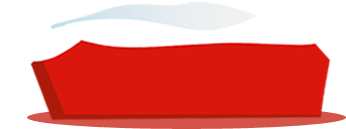
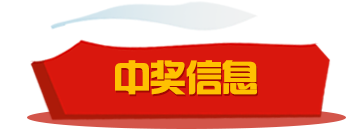
init

Changed region(s): [[0.3179, 0.4651, 0.7514, 0.7442]]

diff --git a/index.html b/index.html
@@ -2,6 +2,8 @@
 <html>
 <head>
 	<title></title>
+	<meta http-equiv="Content-Type" content="text/html; charset=utf-8" />
+	<meta http-equiv="X-UA-Compatible" content="chrome=1">
 </head>
 <link rel="stylesheet" type="text/css" href="http://pic.house365.com/static/css/global.css">
 <link rel="stylesheet" type="text/css" href="/style/christmas.css">
@@ -15,7 +17,48 @@
 		<div class="publish-button">立即发布房源</div>
 	</div>
 </div>
-<div class="main-container"></div>
+<div class="main-container">
+	<div class="prize-contianer">
+		<div class="prize-info-window">
+			<img src="/images/snow_item.png" class="prize-info-title">
+			<table>
+				<tbody>
+					<tr>
+						<td>138***1234</td>
+						<td>谢谢参与</td>
+						<td>2016-10-18 10:00:00</td>
+					</tr>
+					<tr>
+						<td>138***1234</td>
+						<td>谢谢参与</td>
+						<td>2016-10-18 10:00:00</td>
+					</tr>
+					<tr>
+						<td>138***1234</td>
+						<td>谢谢参与</td>
+						<td>2016-10-18 10:00:00</td>
+					</tr>
+					<tr>
+						<td>138***1234</td>
+						<td>谢谢参与</td>
+						<td>2016-10-18 10:00:00</td>
+					</tr>
+					<tr>
+						<td>138***1234</td>
+						<td>谢谢参与</td>
+						<td>2016-10-18 10:00:00</td>
+					</tr>
+					<tr>
+						<td>138***1234</td>
+						<td>谢谢参与</td>
+						<td>2016-10-18 10:00:00</td>
+					</tr>
+				</tbody>
+			</table>
+		</div>
+		<div class="prize-roll"></div>
+	</div>
+</div>
 <footer>
 	<img src="/images/footer_cloud.png">
 </footer>

diff --git a/style/christmas.css b/style/christmas.css
@@ -51,7 +51,7 @@ html,body{
 }
 
 .header .complex-snow-ground .hint-introductions strong {
-	font-weight: bolder;
+	/*font-weight: bolder;*/
 	font-size: 26px;
 	color: #c0192d;
 }
@@ -107,6 +107,52 @@ html,body{
 	padding-top: 200px;
 }
 
+.main-container .prize-contianer {
+	width: 1000px;
+	min-height: 400px;
+	margin: 10px auto 0 auto;
+}
+
+.main-container .prize-contianer .prize-info-window{
+	position: relative;
+	background-color: #f64a43;
+	border-radius: 5px;
+	float: left;
+	width: 657px;
+	height: 367px;
+	border-bottom: 10px solid #ac1a09;
+	border-left: 10px solid #ac1a09;
+	padding: 70px 0 50px 25px;
+}
+
+.main-container .prize-contianer .prize-info-window .prize-info-title{
+	position: absolute;
+	left: 150px;
+	top: -88px;
+}
+
+.main-container .prize-contianer .prize-info-window table {
+	width: 485px;
+	text-indent: 10px;
+	font-size: 18px;
+	color: #ffe1b2;
+}
+
+.main-container .prize-contianer .prize-info-window table tr {
+	border-top: 1px solid white;
+	border-bottom: 1px solid white;
+	height: 60px;
+}
+
+.main-container .prize-contianer .prize-info-window table tr td:nth-child(2){
+	color:#fbe600;
+}
+
+.main-container .prize-contianer .prize-roll{
+	margin-left: 600px;
+	width: 570px;
+	height: 605px;
+}
 
 footer {
 	position: absolute;
@@ -116,5 +162,5 @@ footer {
 	overflow: hidden;
 	background-repeat: no-repeat;
     background-size: contain;
-	background-color: #fec101;
+	/*background-color: #fec101;*/
 }
